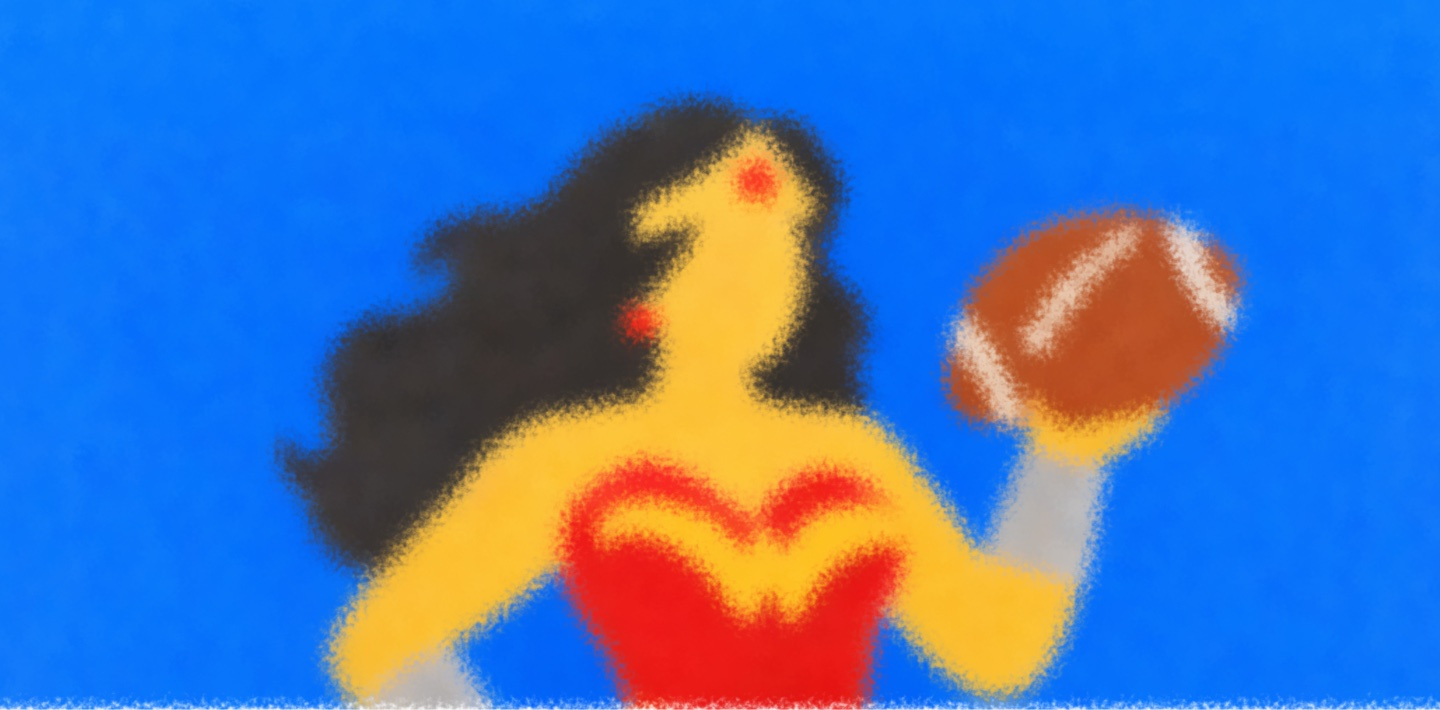
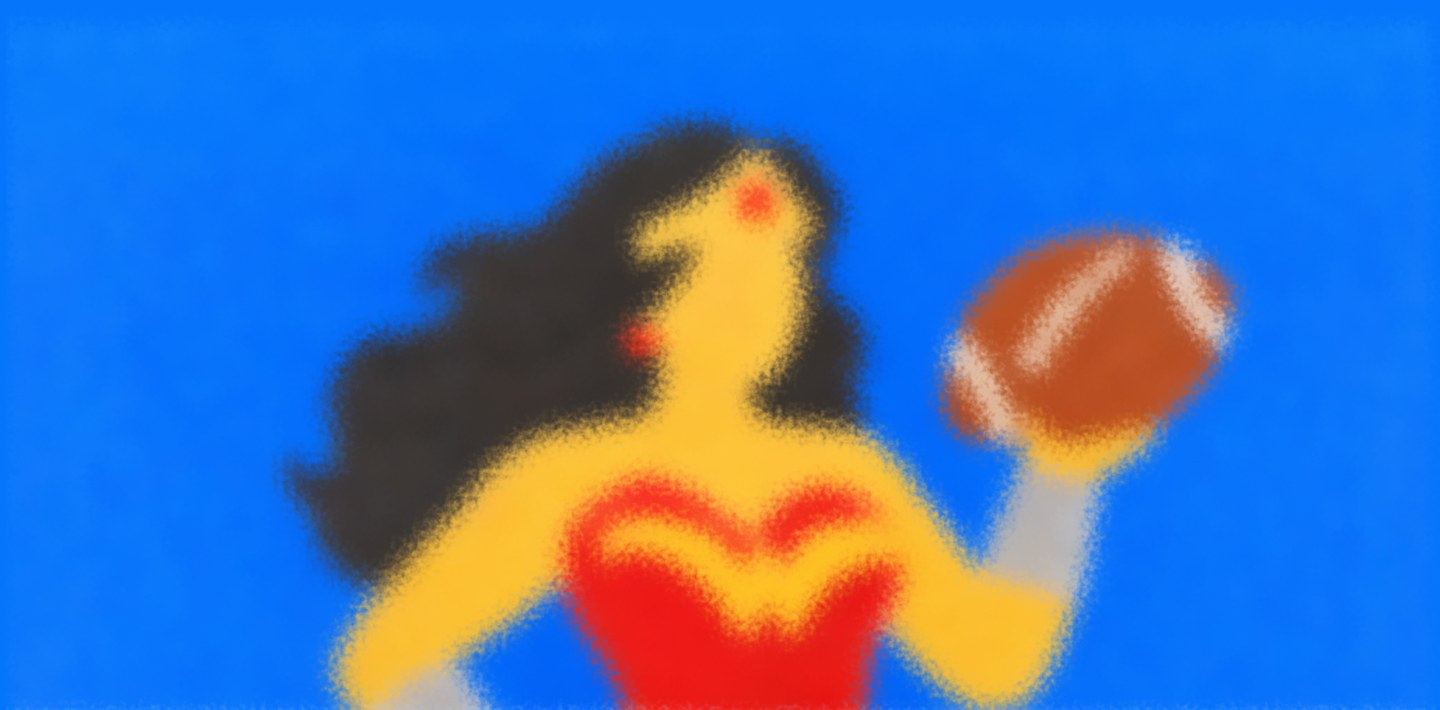
Desktop: event pictures from the updated design, never cut on wide screens

Changed region(s): [[0.0, 0.1239, 1.0, 1.0]]

diff --git a/index.html b/index.html
@@ -315,6 +315,12 @@
     body.stack .cal-panel img.cal-panel__v2 { display: block; }
     .cal-panel__v2 { display: none; }
     @media (min-width: 760px) {
+      /* on screens wider than the frame the picture has to grow past the panel's height to fill its width: it keeps
+         its top at the panel's top edge (as in the frame) and gives up the extra at the bottom instead */
+      body.stack .cal-panel img.cal-panel__v2 { object-position: 50% 0; }
+      /* the pictures with room round them in the frame (inset in V2) are never scaled past the panel's height: on wider
+         screens the event's colour carries on either side (on taller ones above them, as they sit on its bottom edge) */
+      body.stack .cal-panel--inset img.cal-panel__v2 { object-fit: contain; object-position: 50% 100%; }
       body.stack .cal-title {
         top: calc(var(--tt, 100.35) * 1px * var(--s));
         font-size: calc(38px * var(--s)); line-height: calc(46px * var(--s)); letter-spacing: -0.01em;
@@ -796,12 +802,12 @@
     // at the top with the month in it (ink) and the day under it (top: the day's top on the page, track: its tracking);
     // title: where version 2 breaks the title differently
     const V2 = [
-      { color: "#0575fb", ink: "#ffffff", img: "assets/panel-v2/jan-31.jpg", track: -2, title: "We shared our Super Bowl ad\nwith Gal Gadot & Jason Statham" },
+      { color: "#0575fb", ink: "#ffffff", img: "assets/panel-v2/jan-31.jpg", inset: true, track: -2, title: "We shared our Super Bowl ad\nwith Gal Gadot & Jason Statham" },
       { color: "#f4511e", ink: "#ffffff", img: "assets/panel-v2/feb-23.jpg", track: -2 },
-      { color: "#54c88b", ink: "#ffffff", img: "assets/panel-v2/mar-03.jpg", track: -5 },
-      { color: "#d6d0fd", ink: "#000000", img: "assets/panel-v2/may-17.jpg", track: -5 }, // the purple of its picture (Figma 5240-9751), so black text
-      { color: "#fbcbfd", ink: "#000000", img: "assets/panel-v2/jun-22.jpg", track: -3 },
-      { color: "#77574a", ink: "#ffffff", img: "assets/panel-v2/aug-12.jpg", track: -5, title: "Usain Bolt ran his\nlast race",
+      { color: "#54c88b", ink: "#ffffff", img: "assets/panel-v2/mar-03.jpg", inset: true, track: -5 },
+      { color: "#d6d0fd", ink: "#000000", img: "assets/panel-v2/may-17.jpg", inset: true, track: -5 }, // the purple of its picture (Figma 5240-9751), so black text
+      { color: "#fbcbfd", ink: "#000000", img: "assets/panel-v2/jun-22.jpg", inset: true, track: -3 },
+      { color: "#77574a", ink: "#ffffff", img: "assets/panel-v2/aug-12.jpg", inset: true, track: -5, title: "Usain Bolt ran his\nlast race",
         body: "The fastest man in the world pulled up injured in the relay\nfinal in London – not the ending anyone wanted" },
       { color: "#58dce8", ink: "#000000", img: "assets/panel-v2/nov-27.jpg", track: -3 },
       { color: "#ffca4e", ink: "#000000", img: "assets/panel-v2/dec-05.jpg", track: -3,
@@ -1264,6 +1270,7 @@
         node.appendChild(pic);
         // decoded up front, so it's there the moment its panel comes up (not a beat after)
         pic.decode().catch(() => {});
+        if (page.v2.inset) node.classList.add("cal-panel--inset");
         // and the phone's own picture (shown instead on phones; loaded lazily on wide screens)
         const mpic = document.createElement("img");
         mpic.className = "cal-panel__m";
